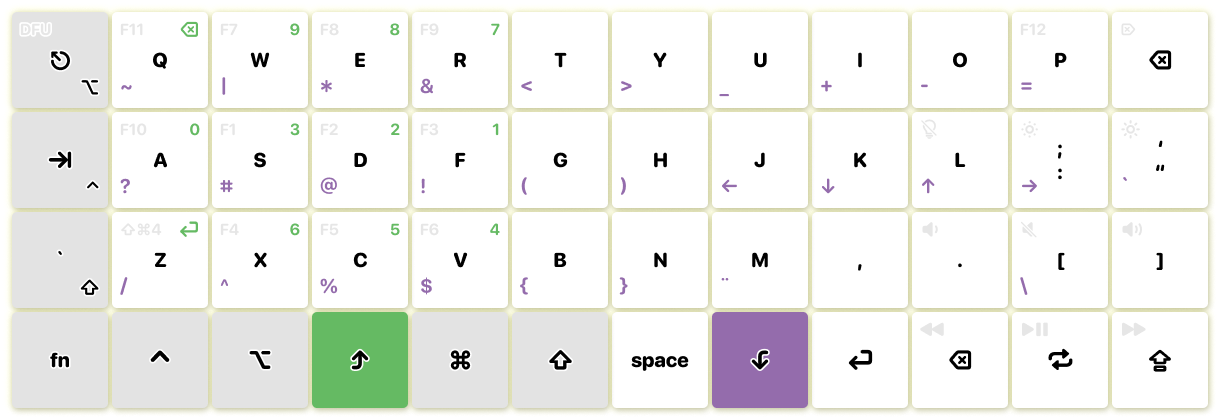
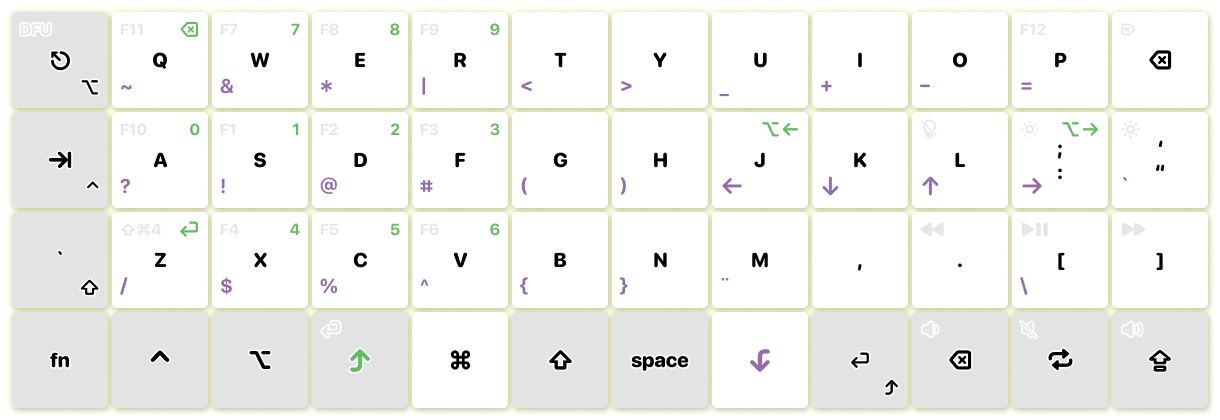
small updates to layout & color scheme

diff --git a/planck/keymap.c b/planck/keymap.c
@@ -54,6 +54,7 @@ enum planck_layers {
 #define OP_RGHT LALT(KC_RGHT) // Opt + right
 #define OP_UP   LALT(KC_UP)   // Opt + up
 #define OP_DOWN LALT(KC_DOWN) // Opt + down
+#define OP_BSPC LALT(KC_BSPC) // Opt + backspace
 
 
 const uint16_t PROGMEM keymaps[][MATRIX_ROWS][MATRIX_COLS] = {
@@ -96,56 +97,56 @@ const uint16_t PROGMEM keymaps[][MATRIX_ROWS][MATRIX_COLS] = {
 
 /* Lower
  * ,-----------------------------------------------------------------------------------------------.
- * | TRNS  |   ~   |   |   |   *   |   &   |   <   |   >   |   _   |   +   |   -   |   =   | TRNS  |
+ * | TRNS  |   ~   |   %   |   *   |   |   |   <   |   >   |   _   |   +   |   -   |   =   | TRNS  |
  * |-------+-------+-------+-------+-------+-------+-------+-------+-------+-------+-------+-------|
- * | TRNS  |   ?   |   #   |   @   |   !   |   (   |   )   |   ←   |   ↓   |   ↑   |   →   |   `   |
+ * | TRNS  |   ?   |   !   |   @   |   #   |   (   |   )   |   ←   |   ↓   |   ↑   |   →   |   `   |
  * |-------+-------+-------+-------+-------+-------+-------+-------+-------+-------+-------+-------|
- * | TRNS  |   /   |   ^   |   %   |   $   |   {   |   }   |  ¨    |       |       |   \   |       |
+ * | TRNS  |   /   |   $   |   %   |   ^   |   {   |   }   |   ¨   |       |       |   \   |       |
  * |-------+-------+-------+-------+-------+-------+-------+-------+-------+-------+-------+-------|
- * | TRNS  | TRNS  | TRNS  | TRNS  | TRNS  | TRNS  | TRNS  | TRNS  | TRNS  | TRNS  | TRNS  | TRNS  |
+ * | TRNS  | TRNS  | TRNS  | TRNS  | TRNS  | TRNS  | TRNS  |       | TRNS  | TRNS  | TRNS  | TRNS  |
  * `-----------------------------------------------------------------------------------------------'
  */
 [_LOWER] = LAYOUT_planck_grid(
-    _______, KC_TILD, KC_PIPE, KC_ASTR, KC_AMPR, KC_LT,   KC_GT,   KC_UNDS, KC_PLUS, KC_MINS, KC_EQL,  _______,
-    _______, KC_QUES, KC_HASH, KC_AT,   KC_EXLM, KC_LPRN, KC_RPRN, KC_LEFT, KC_DOWN, KC_UP,   KC_RGHT, KC_GRV,
-    _______, KC_SLSH, KC_CIRC, KC_PERC, KC_DLR,  KC_LCBR, KC_RCBR, UMLAUT,  XXXXXXX, XXXXXXX, KC_BSLS, XXXXXXX,
-    _______, _______, _______, _______, _______, _______, _______, _______, _______, _______, _______, _______
+    _______, KC_TILD, KC_AMPR, KC_ASTR, KC_PIPE, KC_LT,   KC_GT,   KC_UNDS, KC_PLUS, KC_MINS, KC_EQL,  _______,
+    _______, KC_QUES, KC_EXLM, KC_AT,   KC_HASH, KC_LPRN, KC_RPRN, KC_LEFT, KC_DOWN, KC_UP,   KC_RGHT, KC_GRV,
+    _______, KC_SLSH, KC_DLR,  KC_PERC, KC_CIRC, KC_LCBR, KC_RCBR, UMLAUT,  XXXXXXX, XXXXXXX, KC_BSLS, XXXXXXX,
+    _______, _______, _______, _______, _______, _______, _______, XXXXXXX, _______, _______, _______, _______
 ),
 
 /* Raise
  * ,-----------------------------------------------------------------------------------------------.
- * | TRNS  | bksps |   9   |   8   |   7   |       |       |       |       |       |       | TRNS  |
+ * | TRNS  | bksps |   7   |   8   |   9   |       |       |       |       |       |       |       |
  * |-------+-------+-------+-------+-------+-------+-------+-------+-------+-------+-------+-------|
- * | TRNS  |   0   |   3   |   2   |   1   | space |       |  ⌥ ←  |  ⌥ ↓  |  ⌥ ↑  |  ⌥ →  |       |
+ * | TRNS  |   0   |   1   |   2   |   3   | space |       |  ⌥ ←  |       |       |  ⌥ →  |       |
  * |-------+-------+-------+-------+-------+-------+-------+-------+-------+-------+-------+-------|
- * | TRNS  |   ↲   |   6   |   5   |   4   |       |       |       |       |       |       |       |
+ * | TRNS  |   ↲   |   4   |   5   |   6   |       |       |       |       |       |       |       |
  * |-------+-------+-------+-------+-------+-------+-------+-------+-------+-------+-------+-------|
- * | TRNS  | TRNS  | TRNS  | TRNS  | TRNS  | TRNS  | TRNS  | TRNS  | TRNS  | TRNS  | TRNS  | TRNS  |
+ * | TRNS  | TRNS  | TRNS  |       | TRNS  | TRNS  | TRNS  |       | TRNS  | TRNS  | TRNS  | TRNS  |
  * `-----------------------------------------------------------------------------------------------'
   */
 [_RAISE] = LAYOUT_planck_grid(
-    _______, KC_BSPC, KC_9,    KC_8,    KC_7,    XXXXXXX, XXXXXXX, XXXXXXX, XXXXXXX, XXXXXXX, XXXXXXX,   _______,
-    _______, KC_0,    KC_3,    KC_2,    KC_1,    KC_SPC,  XXXXXXX, OP_LEFT, OP_DOWN, OP_UP,   OP_RGHT, XXXXXXX,
-    _______, KC_ENT,  KC_6,    KC_5,    KC_4,    XXXXXXX, XXXXXXX, XXXXXXX, XXXXXXX, XXXXXXX, XXXXXXX, XXXXXXX,
-    _______, _______, _______, _______, _______, _______, _______, _______, _______, _______, _______, _______
+    _______, KC_BSPC, KC_7,    KC_8,    KC_9,    XXXXXXX, XXXXXXX, XXXXXXX, XXXXXXX, XXXXXXX, XXXXXXX, _______,
+    _______, KC_0,    KC_1,    KC_2,    KC_3,    KC_SPC,  XXXXXXX, OP_LEFT, XXXXXXX, XXXXXXX, OP_RGHT, XXXXXXX,
+    _______, KC_ENT,  KC_4,    KC_5,    KC_6,    XXXXXXX, XXXXXXX, XXXXXXX, XXXXXXX, XXXXXXX, XXXXXXX, XXXXXXX,
+    _______, _______, _______, XXXXXXX, _______, _______, _______, XXXXXXX, _______, _______, _______, _______
 ),
 
 /* FN Layer
  * ,-----------------------------------------------------------------------------------------------.
  * | reset |  F11  |  F7   |  F8   |  F9   |       |       |       |       |       |       |  del  |
  * |-------+-------+-------+-------+-------+-------+-------+-------+-------+-------+-------+-------|
- * | qwert |  F10  |  F1   |  F2   |  F3   |       |       |       |       | led   | brgh- | brgh+ |
+ * | qwert |  F10  |  F1   |  F2   |  F3   |       |       |       |       |bcklght| brgh- | brgh+ |
  * |-------+-------+-------+-------+-------+-------+-------+-------+-------+-------+-------+-------|
- * | colem |  ⇧⌘4  |  F4   |  F5   |  F6   |       |       |       |       | vol-  | mute  | vol+  |
+ * | colem |  ⇧⌘4  |  F4   |  F5   |  F6   |       |       |       |       | prev  | pause | next  |
  * |-------+-------+-------+-------+-------+-------+-------+-------+-------+-------+-------+-------|
- * | TRNS  | TRNS  | TRNS  |raiseTG| TRNS  | TRNS  | TRNS  |lowerTG| TRNS  | prev  | pause | next  |
+ * | TRNS  | TRNS  | TRNS  |   ↲   | TRNS  | TRNS  | TRNS  |       | TRNS  | vol-  | mute  | vol+  |
  * `-----------------------------------------------------------------------------------------------'
  */
 [_FN] = LAYOUT_planck_grid(
     RESET,   KC_F11,  KC_F7,   KC_F8,   KC_F9,   XXXXXXX, XXXXXXX, XXXXXXX, XXXXXXX, XXXXXXX, XXXXXXX, KC_DEL,
     T_QWERT, KC_F10,  KC_F1,   KC_F2,   KC_F3,   XXXXXXX, XXXXXXX, XXXXXXX, XXXXXXX, RGB_TOG, KC_BRID, KC_BRIU,
-    T_COLEM, CMD_S_4, KC_F4,   KC_F5,   KC_F6,   XXXXXXX, XXXXXXX, XXXXXXX, XXXXXXX, KC_VOLD, KC_MUTE, KC_VOLU,
-    _______, _______, _______, RAISE_T, _______, _______, _______, LOWER_T, _______, KC_MPRV, KC_MPLY, KC_MNXT
+    T_COLEM, CMD_S_4, KC_F4,   KC_F5,   KC_F6,   XXXXXXX, XXXXXXX, XXXXXXX, XXXXXXX, KC_MPRV, KC_MPLY, KC_MNXT,
+    _______, _______, _______, KC_ENT,  _______, _______, _______, XXXXXXX, _______, KC_VOLD, KC_MUTE, KC_VOLU
 )
 
 };
